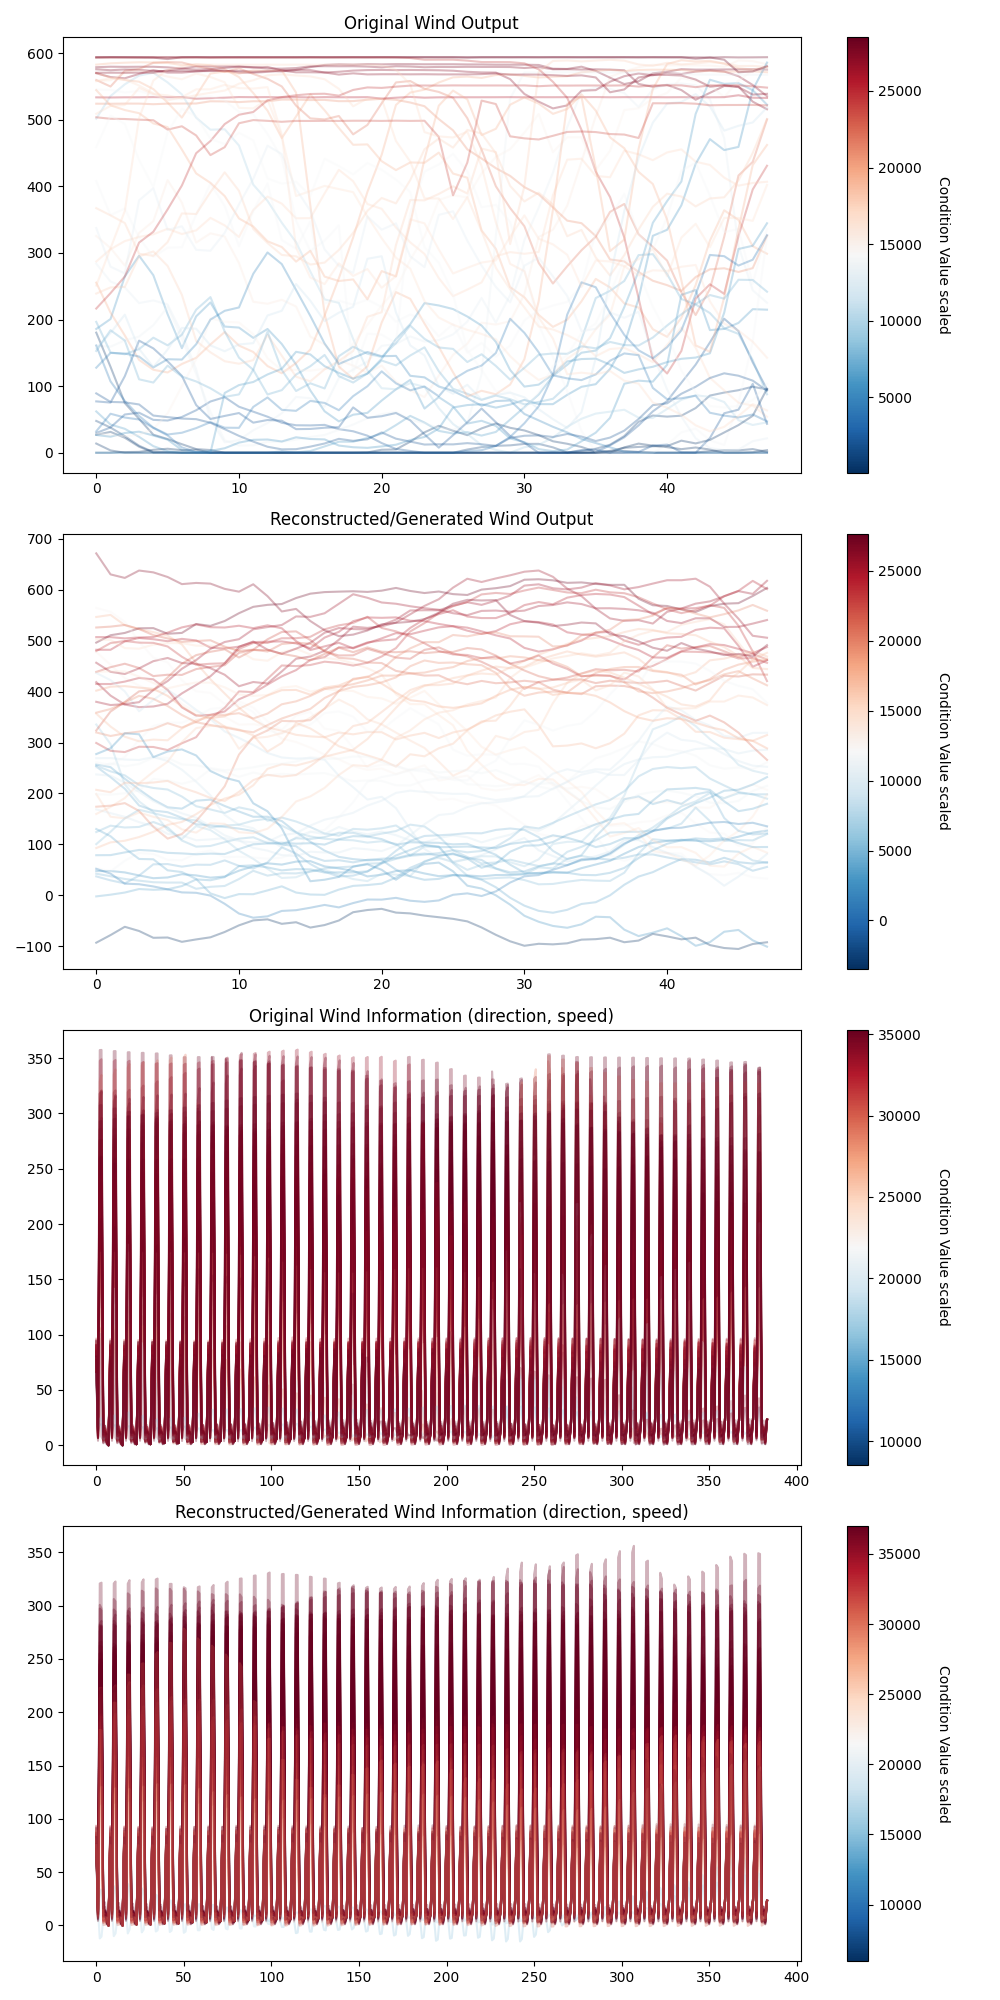
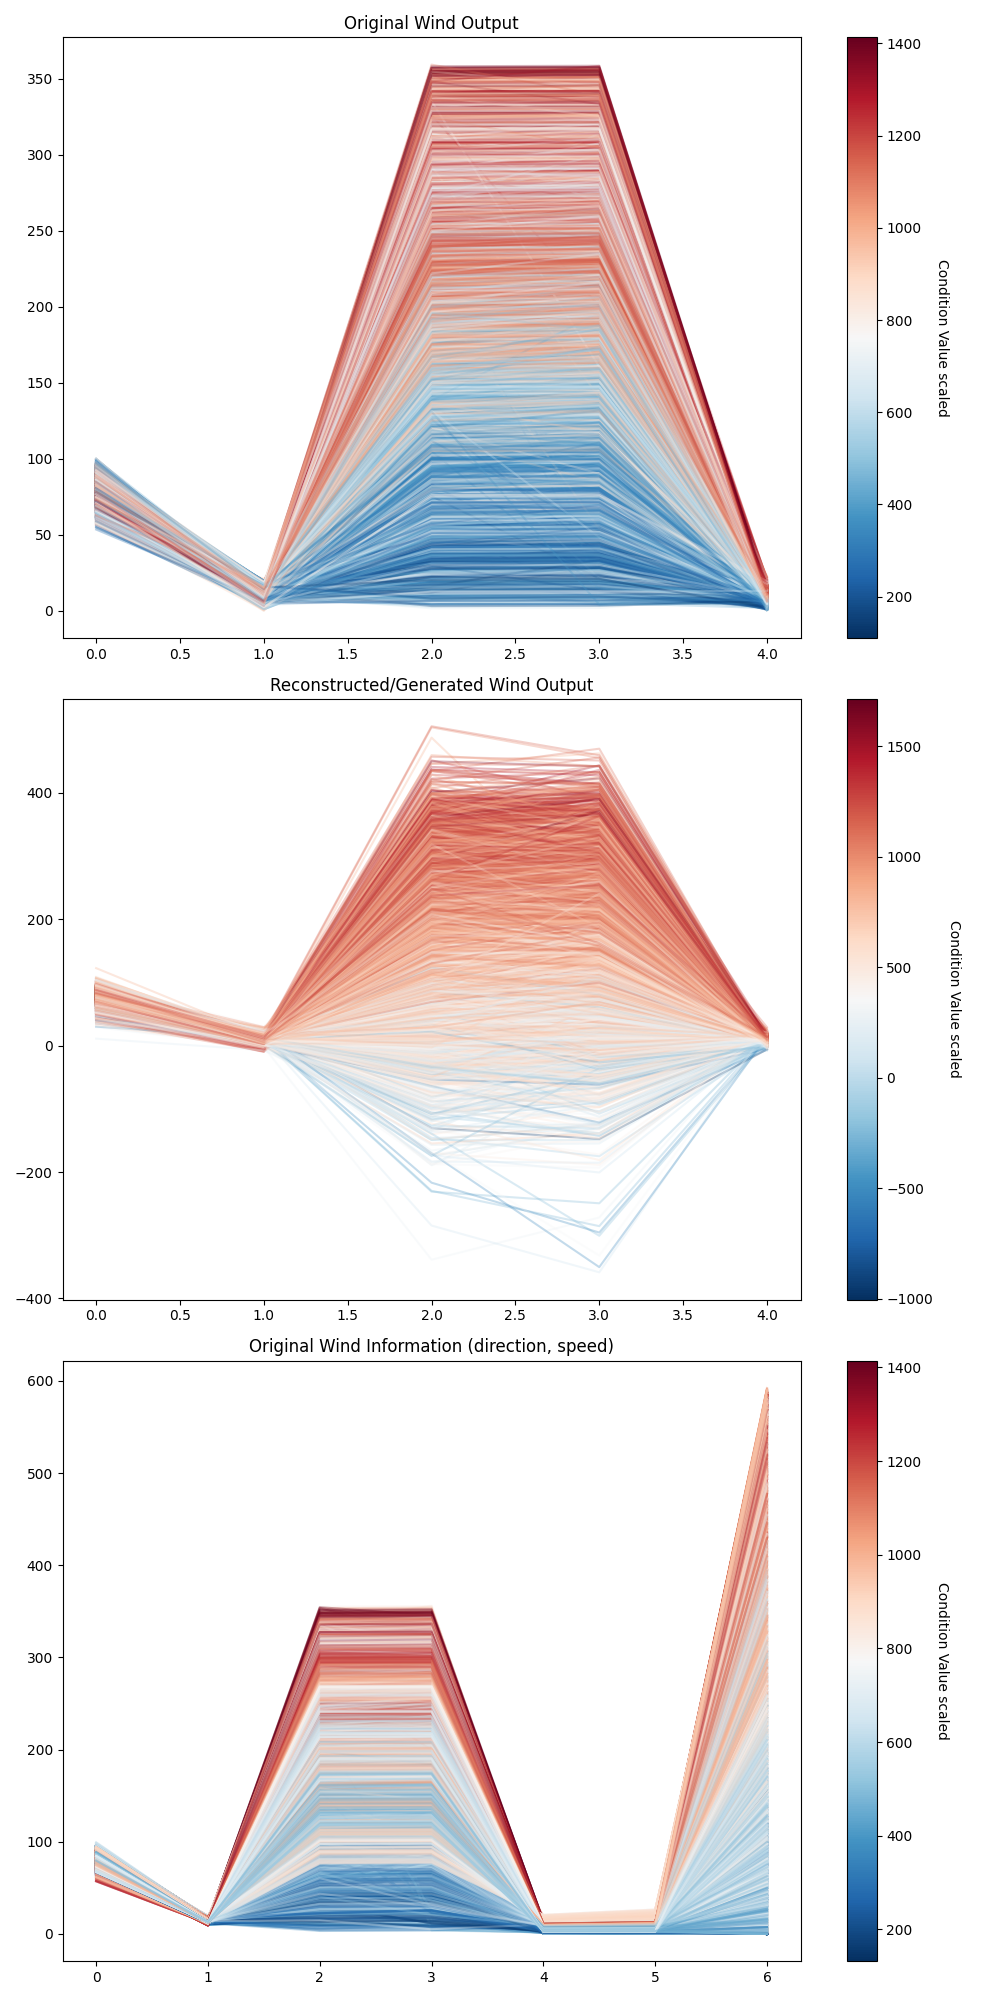
new exp

diff --git a/new_data_aug/FCPFlow/tools/tools_train.py b/new_data_aug/FCPFlow/tools/tools_train.py
@@ -58,15 +58,19 @@ class Datareshape():
         return _data_dict
         
 
-def create_data_loader(numpy_array, batch_size=32, scaler = StandardScaler(), shuffle=True):
+def create_data_loader(numpy_array, batch_size=32, scaler = StandardScaler(), shuffle=True, fit_scaler=True):
     # Check if nan exists in the data, if nan drop
     if np.isnan(numpy_array).any():
         print('There are nan in the data, drop them')
         numpy_array = numpy_array[~np.isnan(numpy_array).any(axis=1)]
 
-    # Scalr the 
-    numpy_array = scaler.fit_transform(numpy_array)
-    
+    if fit_scaler:
+        # Fit the scaler to the data
+        numpy_array = scaler.fit_transform(numpy_array)
+    else:
+        # Transform the data using the fitted scaler
+        numpy_array = scaler.transform(numpy_array)
+
     # Convert the NumPy array to a PyTorch Tensor
     tensor_data = torch.Tensor(numpy_array)
 
@@ -93,65 +97,47 @@ def log_likelihood(x, type='Gaussian'):
         log_likelihood = -0.5 * x.pow(2).sum(dim=1)
     return log_likelihood
 
-def plot_figure(pre, re_data, scaler, con_dim, path='Generated Data Comparison.png'):
+def plot_figure(pre, re_data, scaler, con_dim, test, path='new_data_aug/FCPFlow/saved_model/FCPflow_generated_1.0_new.png'):
     # Inverse transform to get the original scale of the data
-    orig_data_pre = scaler.inverse_transform(pre.cpu().detach().numpy())
-    
-    orig_data_re = scaler.inverse_transform(re_data.cpu().detach().numpy())
-    
+    orig_data_pre = pre.cpu().detach().numpy()
+    orig_data_re = re_data.cpu().detach().numpy()
+    test = np.hstack((test, np.zeros((test.shape[0], 2))))
+    test = scaler.transform(test)
+    test = test[:,:-2]
+
     # For value < 0 , set 0
-    orig_data_pre[orig_data_pre < 0] = 0
-    orig_data_pre[orig_data_pre > 600] = 600
     cmap = plt.get_cmap('RdBu_r')
-    fig, axs = plt.subplots(4, 1, figsize=(10, 20))  # TFour rows for comparison
+    fig, axs = plt.subplots(3, 1, figsize=(10, 20))  # TFour rows for comparison
     
     if con_dim > 0:
         # Original data plot
-        _cond_pre = orig_data_pre[:, -48-con_dim:-con_dim].sum(axis=1)
-        for i, condition in zip(orig_data_pre[:, -48-con_dim:-con_dim], _cond_pre):
+        _cond_pre = orig_data_pre[:500, :-2].sum(axis=1)
+        for i, condition in zip(orig_data_pre[:, :-2], _cond_pre):
             color = cmap((condition - _cond_pre.min()) / (_cond_pre.max() - _cond_pre.min()))
             axs[0].plot(i, color=color, alpha=0.3)
         axs[0].set_title('Original Wind Output')
         
         # Reconstructed/Generated data plot
-        _cond_re = orig_data_re[:, -48-con_dim:-con_dim].sum(axis=1)
-        for i, condition in zip(orig_data_re[:, -48-con_dim:-con_dim], _cond_re):
+        _cond_re = orig_data_re[:500, :-2].sum(axis=1)
+        for i, condition in zip(orig_data_re[:, :-2], _cond_re):
             color = cmap((condition - _cond_re.min()) / (_cond_re.max() - _cond_re.min()))
             axs[1].plot(i, color=color, alpha=0.3)
         axs[1].set_title('Reconstructed/Generated Wind Output')
         
         # Original data plot
-        _cond_pre_w = orig_data_pre[:, :-48-con_dim].sum(axis=1)
-        for i, condition in zip(orig_data_pre[:, :-48-con_dim], _cond_pre_w):
+        _cond_pre_w =  test[:, :].sum(axis=1)
+        for i, condition in zip( test[:, :], _cond_pre_w):
             color = cmap((condition - _cond_pre.min()) / (_cond_pre.max() - _cond_pre.min()))
             axs[2].plot(i, color=color, alpha=0.3)
         axs[2].set_title('Original Wind Information (direction, speed)')
         
-        # Reconstructed/Generated data plot
-        _cond_re_w = orig_data_re[:, :-48-con_dim].sum(axis=1)
-        for i, condition in zip(orig_data_re[:, :-48-con_dim], _cond_re_w):
-            color = cmap((condition - _cond_re.min()) / (_cond_re.max() - _cond_re.min()))
-            axs[3].plot(i, color=color, alpha=0.3)
-        axs[3].set_title('Reconstructed/Generated Wind Information (direction, speed)')
-        
-        
         # Add colorbars to each subplot
-        for ax, _cond in zip(axs, [_cond_pre, _cond_re, _cond_pre_w, _cond_re_w]):
+        for ax, _cond in zip(axs, [_cond_pre, _cond_re, _cond_pre_w]):
             sm = plt.cm.ScalarMappable(cmap=cmap, norm=plt.Normalize(vmin=_cond.min(), vmax=_cond.max()))
             sm.set_array([])
             cbar = plt.colorbar(sm, ax=ax)
             cbar.set_label('Condition Value scaled', rotation=270, labelpad=20)
         
-    else:
-        # Original data plot
-        for i in orig_data_pre:
-            axs[0].plot(i, color='blue', alpha=0.1)
-        axs[0].set_title('Original Data')
-
-        # Reconstructed/Generated data plot
-        for i in orig_data_re:
-            axs[1].plot(i, color='red', alpha=0.1)
-        axs[1].set_title('Reconstructed/Generated Data')
 
     # Adjust layout and save the figure
     plt.tight_layout()
@@ -159,12 +145,61 @@ def plot_figure(pre, re_data, scaler, con_dim, path='Generated Data Comparison.p
     plt.close()
 
     # Use Wandb to save the figure
-    # wandb.log({"Generated Data Comparison": wandb.Image(path)})
+    wandb.log({"Generated Data Comparison": wandb.Image(path)})
+    
+
+def plot_figure_orgin(pre, re_data, scaler, con_dim, test, path='new_data_aug/FCPFlow/saved_model/FCPflow_generated_1.0_new_origin.png'):
+    # Inverse transform to get the original scale of the data
+    orig_data_pre = scaler.inverse_transform(pre.cpu().detach().numpy())
+    orig_data_re = scaler.inverse_transform(re_data.cpu().detach().numpy())
+
+    # For value < 0 , set 0
+    cmap = plt.get_cmap('RdBu_r')
+    fig, axs = plt.subplots(3, 1, figsize=(10, 20))  # TFour rows for comparison
+    
+    if con_dim > 0:
+        # Original data plot
+        _cond_pre = orig_data_pre[:500, :-2].sum(axis=1)
+        for i, condition in zip(orig_data_pre[:, :-2], _cond_pre):
+            color = cmap((condition - _cond_pre.min()) / (_cond_pre.max() - _cond_pre.min()))
+            axs[0].plot(i, color=color, alpha=0.3)
+        axs[0].set_title('Original Wind Output')
+        
+        # Reconstructed/Generated data plot
+        _cond_re = orig_data_re[:500, :-2].sum(axis=1)
+        for i, condition in zip(orig_data_re[:, :-2], _cond_re):
+            color = cmap((condition - _cond_re.min()) / (_cond_re.max() - _cond_re.min()))
+            axs[1].plot(i, color=color, alpha=0.3)
+        axs[1].set_title('Reconstructed/Generated Wind Output')
+        
+        # Original data plot
+        _cond_pre_w =  test[:, :].sum(axis=1)
+        for i, condition in zip( test[:, :], _cond_pre_w):
+            color = cmap((condition - _cond_pre.min()) / (_cond_pre.max() - _cond_pre.min()))
+            axs[2].plot(i, color=color, alpha=0.3)
+        axs[2].set_title('Original Wind Information (direction, speed)')
+        
+        # Add colorbars to each subplot
+        for ax, _cond in zip(axs, [_cond_pre, _cond_re, _cond_pre_w]):
+            sm = plt.cm.ScalarMappable(cmap=cmap, norm=plt.Normalize(vmin=_cond.min(), vmax=_cond.max()))
+            sm.set_array([])
+            cbar = plt.colorbar(sm, ax=ax)
+            cbar.set_label('Condition Value scaled', rotation=270, labelpad=20)
+        
+
+    # Adjust layout and save the figure
+    plt.tight_layout()
+    plt.savefig(path)
+    plt.close()
+
+    # Use Wandb to save the figure
+    wandb.log({"Generated Data Comparison": wandb.Image(path)})
     
 
 
+
 def train(model, train_loader, optimizer, epochs, cond_dim, 
-          device, scaler, test_loader, scheduler, 
+          device, scaler, test, scheduler, 
           index, _wandb=False, _plot=False, _save=True):
     
     """
@@ -189,7 +224,7 @@ def train(model, train_loader, optimizer, epochs, cond_dim,
     """
     
     model.train()
-    loss_mid = -3000
+    loss_mid = -6
     for epoch in range(epochs):
         for _, data in enumerate(train_loader):
             model.train()
@@ -206,7 +241,6 @@ def train(model, train_loader, optimizer, epochs, cond_dim,
             loss =  -llh.mean()-logdet
             optimizer.zero_grad()
             loss.backward()
-            torch.nn.utils.clip_grad_norm_(model.parameters(), max_norm=1.0)  # Use norm-based clipping
             optimizer.step()
             if scheduler is not None:
                 scheduler.step()
@@ -221,10 +255,9 @@ def train(model, train_loader, optimizer, epochs, cond_dim,
         model.eval()
         with torch.no_grad():
             # Test the model
-            pre = next(iter(test_loader))[0].to(device)
+            pre = next(iter(train_loader))[0].to(device)
             cond_test = pre[:,-cond_dim:]
-            data_test = pre[:,:-cond_dim]
-            noise = torch.randn(data_test.shape[0], data_test.shape[1]).to(device)
+            noise = torch.randn(pre.shape[0], pre.shape[1]-1).to(device)
             gen_test = model.inverse(noise, cond_test)
 
             llh_test =  loss # em.MMD_kernel(gen_test.detach().numpy(), data_test.detach().numpy())
@@ -232,23 +265,21 @@ def train(model, train_loader, optimizer, epochs, cond_dim,
             
         # Save the model
         if _save:
-            if loss_test.item() < loss_mid and epoch >= 45000:
+            if loss_test.item() < loss_mid:
                 print('save the model')
-                save_path = os.path.join('data_augmentation/FCPFlow/saved_model', f'FCPflow_model_{index}.pth')
+                save_path = os.path.join('new_data_aug/FCPFlow/saved_model', f'FCPflow_model_{index}.pth')
                 torch.save(model.state_dict(), save_path)
                 loss_mid = loss_test.item()
 
                 # ----------------- Plot the generated data -----------------
-                        
                 # Plot the generated data
-                z = torch.randn(data_test.shape[0], data_test.shape[1]).to(device)
-                gen_test = model.inverse(z, cond_test)
                 re_data = torch.cat((gen_test, cond_test), dim=1)
                 re_data = re_data.detach().cpu()
             
                 if _plot:
-                    save_path = os.path.join('data_augmentation/FCPFlow/saved_model',f'FCPflow_generated_{index}.png')
-                    plot_figure(pre, re_data, scaler, cond_dim, save_path)
+                    save_path = os.path.join('new_data_aug/FCPFlow/saved_model',f'FCPflow_generated_{index}_new.png')
+                    plot_figure(pre, re_data, scaler, cond_dim, test, save_path)
+                    plot_figure_orgin(pre, re_data, scaler, cond_dim, test, save_path)
                 # ----------------- Plot the generated data -----------------
                 
         # # ----------------- Test the model -----------------

diff --git a/new_data_aug/FCPFlow/main_fcpflow.py b/new_data_aug/FCPFlow/main_fcpflow.py
@@ -9,16 +9,18 @@ import yaml
 import pickle
 import numpy as np
 import pandas as pd
+from torch.utils.data import DataLoader, TensorDataset
 
 import alg.models_fcpflow_lin as FCPflows
 import tools.tools_train as tl
+
 # import data_process.data_loader as dl
 # wandb.login(key='e4dfed43f8b9543d822f5c8501b98aef46a010f1')
 
 if __name__ == '__main__':
     
     # Import the configuration file
-    with open("data_augmentation/augmentation_config.yaml", "r") as file:
+    with open("new_data_aug/augmentation_config.yaml", "r") as file:
         config = yaml.safe_load(file)
             
     # Device configuration
@@ -40,37 +42,47 @@ if __name__ == '__main__':
                                             base_lr=config["FCPflow"]["lr_min"], max_lr=config["FCPflow"]["lr_max"],
                                                        cycle_momentum=False)
 
-    for _index in [0.05, 0.1, 0.3, 0.5, 0.8, 1.0]: # 0.05, 0.05, 0.1, 
+    for _index in [1.0]: # 0.05, 0.05, 0.1, 
         
-        wandb.init(project="fcpflow", name=f"FCPflow_{_index*100}percent", reinit=True)
+        wandb.init(project="fcpflow_new", name=f"FCPflow_{_index*100}percent", reinit=True)
         # log the number of parameters
         wandb.config.update({"num_parameters": sum(p.numel() for p in FCPflow.parameters())})
         
         # ---------------Data Process-----------------
         _data_path = config["Path"][f"input_path_{_index}"]  
-        data_reshape = tl.Datareshape(_data_path)
-        _data = data_reshape.creat_new_frame()
+        _data = pd.read_csv(_data_path, index_col=0)
         _data = _data.values
             
         # Split the data into train, validation and test sets
         _original_data = _data.copy()
-        _data = torch.tensor(_data, dtype=torch.float32)
-        _zeros = torch.zeros(_data.shape[0], 1)
+        # Drop nans
+        _data = _data[~np.isnan(_data).any(axis=1)]
+        _data = torch.tensor(_data, dtype=torch.float32).to(device)
+        _zeros = torch.randn(_data.shape[0], 2).to(device) # torch.zeros(_data.shape[0], 1)
         _data = torch.cat((_data, _zeros), dim=1)
         print(_data.shape)
-        # Define the data loader
-        loader, _scaler = tl.create_data_loader(_data, config["FCPflow"]["batch_size"])
+
         
+        # Define the data loader
+        loader, _scaler = tl.create_data_loader(_data.cpu(), config["FCPflow"]["batch_size"])
+        
+        _data_test = 'dsets/test_set_wind.csv'
+        _data_test = pd.read_csv(_data_test, index_col=0)
+        _data_test = _data_test.values
+        _data_test = _data_test[~np.isnan(_data_test).any(axis=1)]
+        _data_test = torch.tensor(_data_test, dtype=torch.float32)
+        print(_data_test.shape)
+
         # ----------------- Train Model -----------------
         tl.train(FCPflow, loader, optimizer, config["FCPflow"]["num_epochs"],
-                config["FCPflow"]["condition_dim"], device, _scaler, loader, scheduler, 
+                config["FCPflow"]["condition_dim"], device, _scaler, _data_test, scheduler, 
                 _index, _wandb=True, _save=True, _plot=True)
 
         print(f"Training completed successfully for index {_index}!")
 
         # ----------------- Sample-----------------
         FCPflow.eval()
-        num_samples = 978 # 1000 - config['Data_num'][_index]
+        num_samples = _data_test.shape[0] # 1000 - config['Data_num'][_index]
         cond_test = torch.zeros(num_samples, 1).to(device)
         noise = torch.randn(cond_test.shape[0], config["FCPflow"]["num_channels"]).to(device)
         gen_test = FCPflow.inverse(noise, cond_test)
@@ -78,7 +90,7 @@ if __name__ == '__main__':
         gen_test = _scaler.inverse_transform(gen_test.detach().cpu().numpy())
         gen_test = gen_test[:,:config["FCPflow"]["num_channels"]]
         
-        save_path = os.path.join('data_augmentation/augmented_data', f'fcpflow_generated_data_{_index}.csv')
+        save_path = os.path.join('data_augmentation/augmented_data', f'fcpflow_generated_data_new_{_index}.csv')
         _input_column = [f'input_{i}' for i in range(config["FCPflow"]["num_channels"]-48)]
         _output_column = [f'output_{i}' for i in range(48)]
         _columns = _input_column + _output_column
@@ -94,7 +106,7 @@ if __name__ == '__main__':
         _data_dict = data_reshape.restor_shape(_frame)
         
         # Save the data into a pickle file
-        _paht = f'data_augmentation/augmented_data/{_index*100}percent_dict_fcpflow.pkl'
+        _paht = f'data_augmentation/augmented_data/{_index*100}percent_dict_fcpflow_new.pkl'
         with open(_paht, 'wb') as _file:
             pickle.dump(_data_dict, _file)
         

diff --git a/new_data_aug/data_check.py b/new_data_aug/data_check.py
@@ -1,0 +1,51 @@
+import pandas as pd
+import yaml
+
+import matplotlib.pyplot as plt
+import numpy as np
+
+import seaborn as sns
+
+with open('new_data_aug/augmentation_config.yaml', 'r') as file:
+    config = yaml.safe_load(file)
+
+for _index in [1.0]: # [0.1, 0.3, 0.5, 0.8, 
+    _data_path = config["Path"][f"input_path_{_index}"]  
+    _data = pd.read_csv(_data_path, index_col=0)
+    print(_data.shape)
+    
+    # Plot the first the data
+    plt.plot(_data.values, alpha = 0.1, c ='blue')
+    plt.title(f"Original data")
+    plt.xlabel("Time")
+    plt.ylabel("Value")
+    plt.savefig(f"new_data_aug/train_data.png")
+    plt.close()
+    
+    # Plot the correlation matrix
+    corr = _data.corr()
+    plt.figure(figsize=(10, 8))
+    sns.heatmap(corr, annot=True, fmt=".2f", cmap='coolwarm', square=True)
+    plt.title("Correlation Matrix")
+    plt.savefig(f"new_data_aug/correlation_matrix.png")
+    plt.close()
+
+test_path = 'dsets/test_set_wind.csv'
+_data = pd.read_csv(test_path, index_col=0)
+print(_data.shape)
+
+# Plot the first the data
+plt.plot(_data.values, alpha = 0.1, c ='blue')
+plt.title(f"Original data")
+plt.xlabel("Time")
+plt.ylabel("Value")
+plt.savefig(f"new_data_aug/test_data.png")
+plt.close()
+
+# Plot the correlation matrix
+corr = _data.corr()
+plt.figure(figsize=(10, 8))
+sns.heatmap(corr, annot=True, fmt=".2f", cmap='coolwarm', square=True)
+plt.title("Correlation Matrix")
+plt.savefig(f"new_data_aug/test_correlation_matrix.png")
+plt.close()
